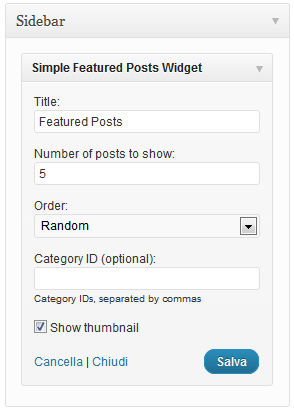
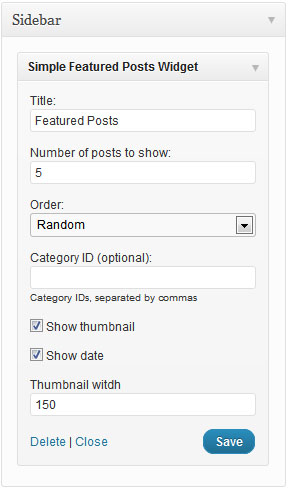
git-svn-id: https://plugins.svn.wordpress.org/simple-featured-posts-widget/trunk@569477 b8457f37-d9ea-0310-8a92-e5e31aec5664

diff --git a/sfpw.php b/sfpw.php
@@ -4,7 +4,7 @@ Plugin Name: Simple Featured Posts Widget
 Plugin URI: http://www.nebulosaweb.com/wordpress/simple-featured-post-widget-articoli-con-immagine-di-anteprima/
 Description: Simple Featured Posts is a pratical widget that allows you to show a post list with thumbnails ordered by random or recent posts. You can also choose post's categories and how many posts you want to show.
 Author: Fabio Di Stasio
-Version: 1.0.1
+Version: 1.1
 Author URI: http://nebulosaweb.com
 */
 
@@ -39,9 +39,23 @@ class sfpWidget extends WP_Widget {
 			$myposts = get_posts( $args );
 			foreach( $myposts as $post ) : setup_postdata($post); ?>
 				<li>
-					<?php if($instance['image'] == 1){ echo "<img width='150' src='".plugin_dir_url(__FILE__)."/".first_image()."' alt='".the_title('','',FALSE)."'/>";} ?>
+					<?php 
+						if($instance['image'] == 1){ 
+							$size = imgSize(first_image());
+							if($instance['size'] != null or $instance['size'] == 0){
+								$setWitdh = "150";
+							}
+							else{
+								$setWitdh = $instance['image'];
+							}
+							
+							$h = @ceil($size[1]/($size[0]/$setWitdh));
+							
+							echo "<img width='".$setWitdh."' height='".$h."' src='".first_image()."' alt='".the_title('','',FALSE)."'/>";
+						} 
+					?>
 				<h4><a href="<?php the_permalink(); ?>" title="<?php the_title(); ?>"><?php the_title(); ?></a></h4>
-				<span><?php the_time('j F Y') ?></span>
+				<?php if($instance['date'] == 1):?><span><?php the_time('j F Y') ?></span><?php endif; ?>
 				</li>
 			<?php endforeach;
 			$post = $tmp_post; ?>
@@ -59,6 +73,8 @@ class sfpWidget extends WP_Widget {
 			$order = $instance['order'];
 			$category = esc_attr($instance['category']);
 			$image = $instance['image'];
+			$date = $instance['date'];
+			$size = $instance['size'];
 		}
 		else{
 			$title = "Featured Posts";
@@ -66,6 +82,8 @@ class sfpWidget extends WP_Widget {
 			$order = "rand";
 			$category = "";
 			$image = 1;
+			$date = 1;
+			$size = 150;
 		}?>
 		<p>
 			<label for="<?php echo $this->get_field_id('title');?>"><?php _e('Title:'); ?></label> 
@@ -90,7 +108,14 @@ class sfpWidget extends WP_Widget {
 		<p>
 			<input class="checkbox" <?php if($image == 1): ?>checked="checked"<?php endif?> id="<?php echo $this->get_field_id('image');?>" name="<?php echo $this->get_field_name('image');?>" type="checkbox" value="1"/>
 			<label for="<?php echo $this->get_field_id('imahe');?>"><?php _e('Show thumbnail','sfpw'); ?></label> 
-
+		</p>
+		<p>
+			<input class="checkbox" <?php if($date == 1): ?>checked="checked"<?php endif?> id="<?php echo $this->get_field_id('date');?>" name="<?php echo $this->get_field_name('date');?>" type="checkbox" value="1"/>
+			<label for="<?php echo $this->get_field_id('date');?>"><?php _e('Show date','sfpw'); ?></label> 
+		</p>
+		<p>
+			<label for="<?php echo $this->get_field_id('size');?>"><?php _e('Thumbnail witdh','sfpw'); ?></label> 
+			<input class="widefat" id="<?php echo $this->get_field_id('size');?>" name="<?php echo $this->get_field_name('size');?>" type="text" value="<?php echo $size; ?>"/>
 		</p>
 		<?php
 	}

diff --git a/sfpw-func.php b/sfpw-func.php
@@ -8,10 +8,22 @@ function first_image() {
 	$first_img = $matches [1] [0];
 
 	if(empty($first_img)){ //Defines a default image
-		$first_img = "images/default.jpg";
+		$first_img = plugin_dir_url(__FILE__)."/images/default.png";
 	}
 		
 	return $first_img;
 }
+
+function imgSize($img){
+
+	if(strpos($img, "/") == 0){
+		$img = substr($img,1);
+	}
+	
+	$size = @getimagesize($img);
+	return $size;
+}
+
 add_action('wp_head', 'first_image');
+add_action('wp_head', 'imgSize');
 ?>
